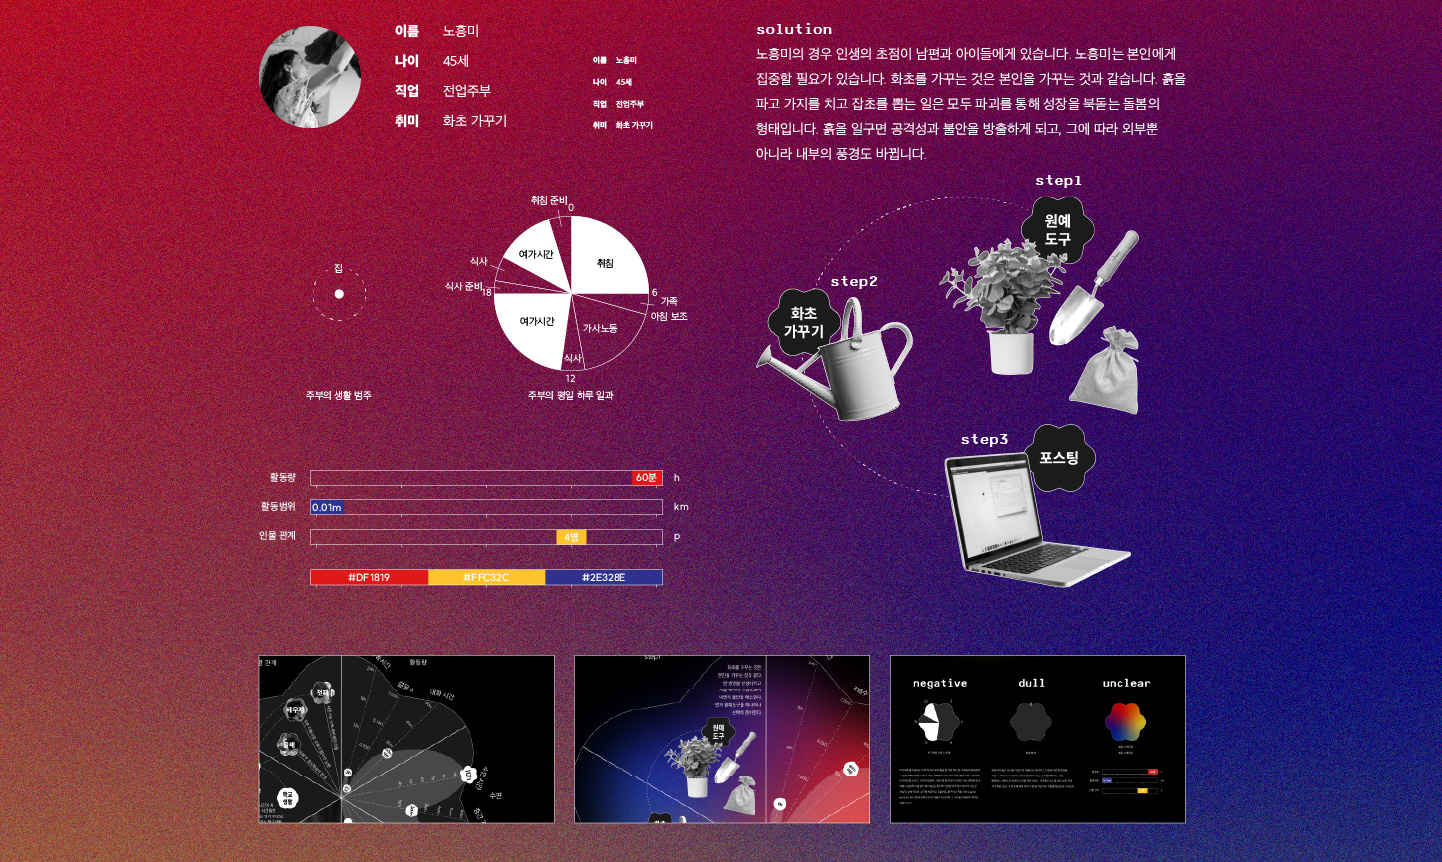
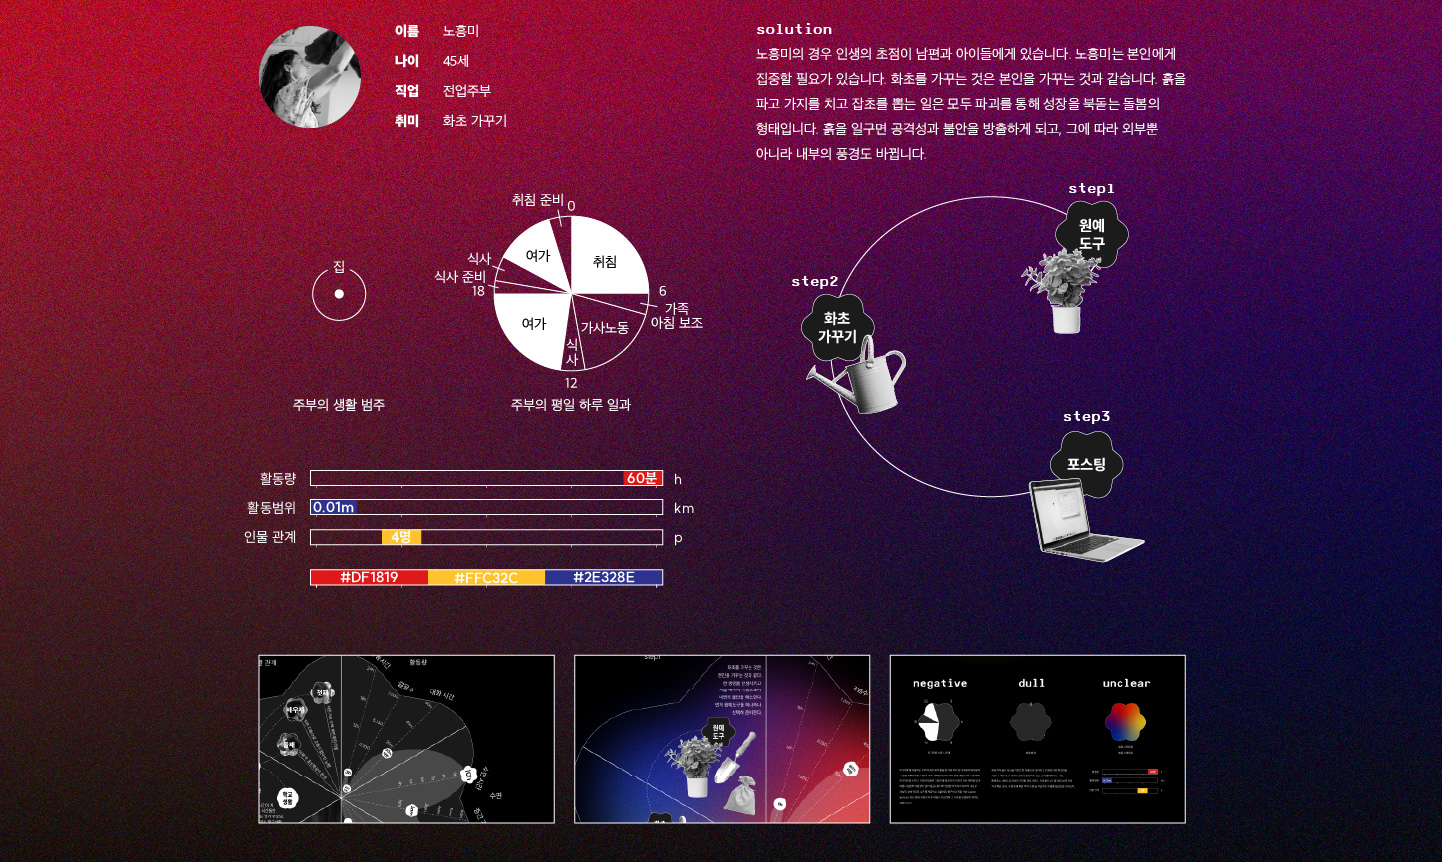
타이포 최대한 수정!!

diff --git a/src/subject2/subject2.html b/src/subject2/subject2.html
@@ -29,7 +29,7 @@
             <!-- 비메오 영상 포맷 가이드라인 링크: https://help.vimeo.com/hc/en-us/articles/12426043233169-Video-and-audio-compression-guidelines -->
             <div style="padding: 56.25% 0 0 0; position: relative">
               <iframe
-                src="https://player.vimeo.com/video/860619613?h=0b86570b26&autoplay=1&loop=1&title=0&byline=0&portrait=0&background=1"
+                src="https://player.vimeo.com/video/860755551?h=ae550375f9&autoplay=1&loop=1&title=0&byline=0&portrait=0&background=1"
                 style="
                   position: absolute;
                   top: 0;
@@ -41,6 +41,7 @@
                 allow="autoplay; fullscreen; picture-in-picture"
                 allowfullscreen></iframe>
             </div>
+            <script src="https://player.vimeo.com/api/player.js"></script>
             <script src="https://player.vimeo.com/api/player.js"></script>
             <img src="./assets/typo_1.jpg" alt="" />
             <img src="./assets/typo_2.jpg" alt="" />
@@ -50,7 +51,7 @@
             <img src="./assets/typo_6.jpg" alt="" />
             <div style="padding: 28.47% 0 0 0; position: relative">
               <iframe
-                src="https://player.vimeo.com/video/860632869?h=c6f6f97c9a&autoplay=1&loop=1&title=0&byline=0&portrait=0&background=1"
+                src="https://player.vimeo.com/video/860759224?h=ebf568f3f9&autoplay=1&loop=1&title=0&byline=0&portrait=0&background=1"
                 style="
                   position: absolute;
                   top: 0;
@@ -62,7 +63,6 @@
                 allow="autoplay; fullscreen; picture-in-picture"
                 allowfullscreen></iframe>
             </div>
-            <script src="https://player.vimeo.com/api/player.js"></script>
             <script src="https://player.vimeo.com/api/player.js"></script>
             <div style="padding: 100% 0 0 0; position: relative">
               <iframe
@@ -83,7 +83,7 @@
             <img src="./assets/typo_8.jpg" alt="" />
             <div style="padding: 100% 0 0 0; position: relative">
               <iframe
-                src="https://player.vimeo.com/video/860623400?h=96f007c1fd&autoplay=1&loop=1&title=0&byline=0&portrait=0&background=1"
+                src="https://player.vimeo.com/video/860755508?h=0647250a84&autoplay=1&loop=1&title=0&byline=0&portrait=0&background=1"
                 style="
                   position: absolute;
                   top: 0;
@@ -100,7 +100,7 @@
             <img src="./assets/typo_10.jpg" alt="" />
             <div style="padding: 100% 0 0 0; position: relative">
               <iframe
-                src="https://player.vimeo.com/video/860627854?h=a4a0918243&autoplay=1&loop=1&title=0&byline=0&portrait=0&background=1"
+                src="https://player.vimeo.com/video/860757498?h=a2dc665340&autoplay=1&loop=1&title=0&byline=0&portrait=0&background=1"
                 style="
                   position: absolute;
                   top: 0;
@@ -116,9 +116,6 @@
             <img src="./assets/typo_11.jpg" alt="" />
             <img src="./assets/typo_12.jpg" alt="" />
             <img src="./assets/typo_13.jpg" alt="" />
-            <img src="./assets/typo_14.jpg" alt="" />
-            <img src="./assets/typo_14_1.jpg" alt="" />
-            <img src="./assets/typo_15.jpg" alt="" />
             <!-- 비메오 영상 포맷 가이드라인 링크: https://help.vimeo.com/hc/en-us/articles/12426043233169-Video-and-audio-compression-guidelines -->
             <!-- 1개 파일의 용량을 1MB 이하로 하시오. -->
             <!-- 절대 1개 파일의 용량이 100MB를 넘지 않도록 하시오. 이를 어겨 발생하는 모든 문제는 학생이 알아서 해결하시오. -->
